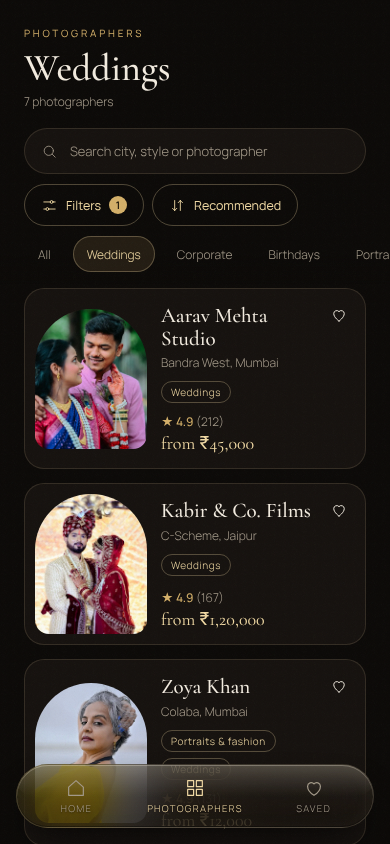
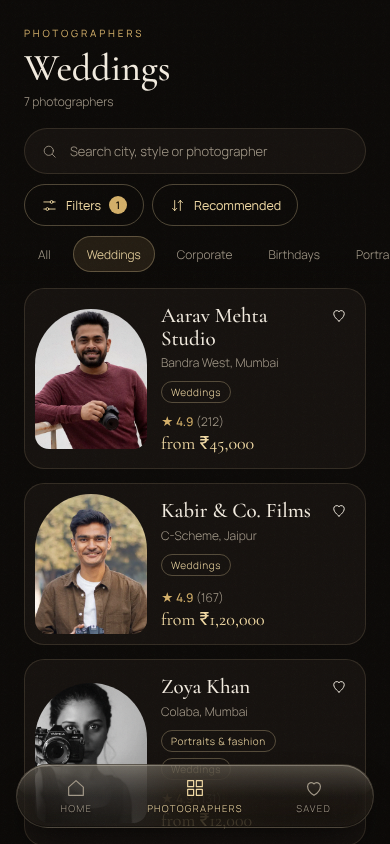
Represent each photographer by a lead portrait; add leadName/leadImage and Led by line
Claude-Session: https://claude.ai/code/session_01Rxh5ijzNSCdoqTBqvzDQCr

Changed region(s): [[0.0923, 0.3389, 0.4, 0.5545], [0.0923, 0.5853, 0.4, 0.7701], [0.0923, 0.8009, 0.4, 0.9858]]

diff --git a/src/data/seed/photographers.ts b/src/data/seed/photographers.ts
@@ -4,97 +4,97 @@ import type { Photographer } from '../types';
 type P = Omit<Photographer, 'startingPrice' | 'contact'> & { n: number };
 const raw: P[] = [
   {
-    id: 'aarav-mehta', n: 1, name: 'Aarav Mehta Studio', tagline: 'Candid, cinematic wedding stories', heroImage: '39625024',
+    id: 'aarav-mehta', n: 1, name: 'Aarav Mehta Studio', tagline: 'Candid, cinematic wedding stories', heroImage: '39625024', leadName: 'Aarav Mehta', leadImage: 'lead-aarav-mehta',
     city: 'Mumbai', area: 'Bandra West', categories: ['weddings'], rating: 4.9, reviewCount: 212, yearsExperience: 11, featured: true,
     about: 'Eleven years of Indian weddings, from Udaipur palaces to Mumbai courtyards. I shoot quietly from the edges, so the day stays yours and the photographs feel like memory rather than performance. Most of my couples tell me they forgot I was there.',
     signatureStyle: { title: 'Candid & cinematic', bullets: ['Golden-hour storytelling over posed line-ups', 'Rich, true-to-skin colour grading', 'A single album sequenced like a short film'], tags: ['Candid', 'Cinematic', 'Warm tones'] },
   },
   {
-    id: 'kabir-films', n: 2, name: 'Kabir & Co. Films', tagline: 'Royal Rajasthani weddings, shot like cinema', heroImage: '32379184',
+    id: 'kabir-films', n: 2, name: 'Kabir & Co. Films', tagline: 'Royal Rajasthani weddings, shot like cinema', heroImage: '32379184', leadName: 'Kabir Anand', leadImage: 'lead-kabir-films',
     city: 'Jaipur', area: 'C-Scheme', categories: ['weddings'], rating: 4.9, reviewCount: 167, yearsExperience: 9, featured: true,
     about: 'A two-brother team based in Jaipur, shooting palace and haveli weddings across Rajasthan. We scout every venue before the big day so light, angles and the baraat route are planned, never improvised.',
     signatureStyle: { title: 'Regal, jewel-toned frames', bullets: ['Wide palace architecture with the couple small in frame', 'Deep reds and marigold kept saturated, never washed out', 'Drone and gimbal film delivered with the stills'], tags: ['Royal', 'Editorial', 'Drone'] },
   },
   {
-    id: 'meher-vikram', n: 3, name: 'Meher & Vikram', tagline: 'Documentary photographs of every ritual', heroImage: '29984888',
+    id: 'meher-vikram', n: 3, name: 'Meher & Vikram', tagline: 'Documentary photographs of every ritual', heroImage: '29984888', leadName: 'Vikram Malik', leadImage: 'lead-meher-vikram',
     city: 'Delhi', area: 'Greater Kailash', categories: ['weddings'], rating: 4.8, reviewCount: 143, yearsExperience: 8,
     about: 'We grew up at Punjabi weddings and still get emotional at the doli. Our work follows the rituals, haldi, mehendi, pheras, in the order they happen, with a soft spot for aunties, grandparents and the chaos between ceremonies.',
     signatureStyle: { title: 'Ritual-first documentary', bullets: ['Hands, bangles and haldi close-ups woven into the story', 'Colour-rich, slightly grainy film look', 'Family portraits shot in two quick minutes, not two hours'], tags: ['Documentary', 'Rituals', 'Colourful'] },
   },
   {
-    id: 'ananya-rao', n: 4, name: 'Ananya Rao Photography', tagline: 'Bridal portraits and intimate ceremonies', heroImage: '29226150',
+    id: 'ananya-rao', n: 4, name: 'Ananya Rao Photography', tagline: 'Bridal portraits and intimate ceremonies', heroImage: '29226150', leadName: 'Ananya Rao', leadImage: 'lead-ananya-rao',
     city: 'Bengaluru', area: 'Indiranagar', categories: ['weddings'], rating: 4.8, reviewCount: 98, yearsExperience: 7, featured: true,
     about: 'I photograph weddings of every tradition, Kannada, Tamil, Bengali and Marwari, and I love the small hours before the ceremony. Expect soft window light, jasmine, silk and a bride who is allowed to breathe.',
     signatureStyle: { title: 'Soft light, quiet brides', bullets: ['Getting-ready portraits shot by window light', 'Traditional jewellery and textiles in detail', 'Limited weddings per season to keep it personal'], tags: ['Soft', 'Bridal', 'Intimate'] },
   },
   {
-    id: 'joaquim-fernandes', n: 5, name: 'Joaquim Fernandes', tagline: 'Sun, sea and saptapadi', heroImage: '32107242',
+    id: 'joaquim-fernandes', n: 5, name: 'Joaquim Fernandes', tagline: 'Sun, sea and saptapadi', heroImage: '32107242', leadName: 'Joaquim Fernandes', leadImage: 'lead-joaquim-fernandes',
     city: 'Goa', area: 'Assagao', categories: ['weddings'], rating: 4.7, reviewCount: 121, yearsExperience: 10,
     about: 'Destination weddings on Goa beaches, villas and old Portuguese churches. I travel light, shoot with natural light and keep couples relaxed with a very bad sense of humour.',
     signatureStyle: { title: 'Sunlit and unhurried', bullets: ['Golden-hour beach portraits with minimal posing', 'Relaxed, laughing candids over staged stills', 'Same-week sneak peek of ten photographs'], tags: ['Destination', 'Natural light', 'Beach'] },
   },
   {
-    id: 'riya-shekhawat', n: 6, name: 'Riya Shekhawat', tagline: 'Rajasthani portraits and bridal editorials', heroImage: '38281667',
+    id: 'riya-shekhawat', n: 6, name: 'Riya Shekhawat', tagline: 'Rajasthani portraits and bridal editorials', heroImage: '38281667', leadName: 'Riya Shekhawat', leadImage: 'lead-riya-shekhawat',
     city: 'Jaipur', area: 'Vaishali Nagar', categories: ['portraits', 'weddings'], rating: 4.8, reviewCount: 76, yearsExperience: 6,
     about: 'I make portraits that honour the textiles, jewellery and faces of Rajasthan. Bridal editorials and pre-wedding shoots share a studio with personal portrait sessions in old Jaipur havelis.',
     signatureStyle: { title: 'Heritage portraiture', bullets: ['Natural window light in havelis and courtyards', 'Jewellery, odhni and mehendi given room in the frame', 'Colour palettes planned with your outfit'], tags: ['Heritage', 'Editorial', 'Bridal'] },
   },
   {
-    id: 'zoya-khan', n: 7, name: 'Zoya Khan', tagline: 'Faces with stories, light with patience', heroImage: '40124295',
+    id: 'zoya-khan', n: 7, name: 'Zoya Khan', tagline: 'Faces with stories, light with patience', heroImage: '40124295', leadName: 'Zoya Khan', leadImage: 'lead-zoya-khan',
     city: 'Mumbai', area: 'Colaba', categories: ['portraits', 'weddings'], rating: 4.9, reviewCount: 131, yearsExperience: 8,
     about: 'Street-trained portrait photographer. I spend an hour talking before I pick up the camera, which is why people look like themselves in my photographs. I also shoot a small number of intimate weddings each year.',
     signatureStyle: { title: 'Honest, close portraits', bullets: ['Tight framing, shallow depth, eyes in focus', 'Black-and-white options on every shoot', 'Unretouched skin, gentle colour'], tags: ['Character', 'Monochrome', 'Intimate'] },
   },
   {
-    id: 'ira-kapoor', n: 8, name: 'Ira Kapoor Frames', tagline: 'Editorial fashion with an Indian palette', heroImage: '13156801',
+    id: 'ira-kapoor', n: 8, name: 'Ira Kapoor Frames', tagline: 'Editorial fashion with an Indian palette', heroImage: '13156801', leadName: 'Ira Kapoor', leadImage: 'lead-ira-kapoor',
     city: 'Delhi', area: 'Gurugram', categories: ['portraits'], rating: 4.8, reviewCount: 189, yearsExperience: 9, featured: true,
     about: 'Fashion and lookbook photographer working with designers, models and creators across Delhi NCR. I style, light and direct each shoot like a short editorial, from saree drapes to streetwear.',
     signatureStyle: { title: 'Moody editorial colour', bullets: ['Deep teal and rust palettes against traditional textiles', 'Directional light, cinematic crops', 'Shot list and mood board shared two days before'], tags: ['Editorial', 'Moody', 'Fashion'] },
   },
   {
-    id: 'dev-malhotra', n: 9, name: 'Dev Malhotra', tagline: 'Portfolios and portraits for people who dislike being photographed', heroImage: '5163867',
+    id: 'dev-malhotra', n: 9, name: 'Dev Malhotra', tagline: 'Portfolios and portraits for people who dislike being photographed', heroImage: '5163867', leadName: 'Dev Malhotra', leadImage: 'lead-dev-malhotra',
     city: 'Goa', area: 'Panjim', categories: ['portraits'], rating: 4.7, reviewCount: 64, yearsExperience: 5,
     about: 'Actors, musicians and founders come to me for portfolio and profile shoots. We walk around Panjim or shoot on the beach at dusk, so nobody has to hold an awkward pose in a studio.',
     signatureStyle: { title: 'Easy, outdoor portraits', bullets: ['Walk-and-talk sessions, no stiff posing', 'Warm film-style colour', 'Twenty edited images within three days'], tags: ['Portfolio', 'Outdoor', 'Warm'] },
   },
   {
-    id: 'pooja-iyer', n: 10, name: 'Pooja Iyer Moments', tagline: 'Birthdays for kids who will not sit still', heroImage: '32760987',
+    id: 'pooja-iyer', n: 10, name: 'Pooja Iyer Moments', tagline: 'Birthdays for kids who will not sit still', heroImage: '32760987', leadName: 'Pooja Iyer', leadImage: 'lead-pooja-iyer',
     city: 'Bengaluru', area: 'HSR Layout', categories: ['birthdays'], rating: 4.9, reviewCount: 203, yearsExperience: 7, featured: true,
     about: 'I photograph first birthdays and kids parties in Bengaluru homes and clubhouses. Twenty minutes of play is better than an hour of posing, so I bring bubbles, music and a lot of patience.',
     signatureStyle: { title: 'Playful pastel candids', bullets: ['Eye-level shots of kids mid-laugh', 'Soft pastel grading to match the decor', 'Cake-smash and balloon portraits included'], tags: ['Kids', 'Playful', 'Pastel'] },
   },
   {
-    id: 'farhan-qureshi', n: 11, name: 'Farhan Qureshi', tagline: 'Parties and offsites, caught on the dance floor', heroImage: '29295011',
+    id: 'farhan-qureshi', n: 11, name: 'Farhan Qureshi', tagline: 'Parties and offsites, caught on the dance floor', heroImage: '29295011', leadName: 'Farhan Qureshi', leadImage: 'lead-farhan-qureshi',
     city: 'Delhi', area: 'Hauz Khas', categories: ['birthdays', 'corporate'], rating: 4.6, reviewCount: 87, yearsExperience: 8,
     about: 'Milestone birthdays, farmhouse parties and company offsites. I use bounce flash and fast lenses so the dance floor looks the way it felt, not like a CCTV frame.',
     signatureStyle: { title: 'Energetic night-life candids', bullets: ['Flash-kissed motion and confetti', 'Group shots in under five minutes', 'Gallery link live the next morning'], tags: ['Party', 'Flash', 'Energy'] },
   },
   {
-    id: 'neha-kapoor', n: 12, name: 'Neha Kapoor Little Stories', tagline: 'Gentle birthday and cake-smash portraits', heroImage: '8104171',
+    id: 'neha-kapoor', n: 12, name: 'Neha Kapoor Little Stories', tagline: 'Gentle birthday and cake-smash portraits', heroImage: '8104171', leadName: 'Neha Kapoor', leadImage: 'lead-neha-kapoor',
     city: 'Jaipur', area: 'Malviya Nagar', categories: ['birthdays'], rating: 4.7, reviewCount: 112, yearsExperience: 6,
     about: 'A home studio in Malviya Nagar with themed backdrops, plus on-location party coverage. Soft, airy photographs that look good in a frame on the wall as well as on a phone.',
     signatureStyle: { title: 'Airy, themed storytelling', bullets: ['Custom backdrops built around your theme', 'Bright, clean light that flatters little faces', 'Printed mini-album with every full package'], tags: ['Airy', 'Themed', 'Studio'] },
   },
   {
-    id: 'aditi-verma', n: 13, name: 'Aditi Verma', tagline: 'Beach-house and villa parties in Goa', heroImage: '38473407',
+    id: 'aditi-verma', n: 13, name: 'Aditi Verma', tagline: 'Beach-house and villa parties in Goa', heroImage: '38473407', leadName: 'Aditi Verma', leadImage: 'lead-aditi-verma',
     city: 'Goa', area: 'Candolim', categories: ['birthdays'], rating: 4.6, reviewCount: 58, yearsExperience: 5,
     about: 'Villa birthdays, bachelorette weekends and sundowner parties in North Goa. I blend in with the guests, keep the energy high and deliver a gallery before you fly home.',
     signatureStyle: { title: 'Sundowner party stories', bullets: ['Golden-hour group portraits', 'Candids of the guests, not just the host', 'Quick-turnaround highlights for the group chat'], tags: ['Villa', 'Sundowner', 'Groups'] },
   },
   {
-    id: 'rohan-kulkarni', n: 14, name: 'Rohan Kulkarni Events', tagline: 'Conferences and launches, covered end to end', heroImage: '7591091',
+    id: 'rohan-kulkarni', n: 14, name: 'Rohan Kulkarni Events', tagline: 'Conferences and launches, covered end to end', heroImage: '7591091', leadName: 'Rohan Kulkarni', leadImage: 'lead-rohan-kulkarni',
     city: 'Mumbai', area: 'Powai', categories: ['corporate'], rating: 4.8, reviewCount: 156, yearsExperience: 12, featured: true,
     about: 'Twelve years covering summits, product launches and award nights for Mumbai companies. A two-person crew handles stage, audience and networking, with a same-day edit for social teams.',
     signatureStyle: { title: 'Clean, journalistic coverage', bullets: ['Speaker, audience and sponsor shots on one shot list', 'Neutral grading true to brand colours', 'Same-day highlights for LinkedIn and Instagram'], tags: ['Conference', 'Launch', 'Same-day'] },
   },
   {
-    id: 'siddharth-nair', n: 15, name: 'Siddharth Nair Imagery', tagline: 'Team headshots and offsite photography', heroImage: '7580766',
+    id: 'siddharth-nair', n: 15, name: 'Siddharth Nair Imagery', tagline: 'Team headshots and offsite photography', heroImage: '7580766', leadName: 'Siddharth Nair', leadImage: 'lead-siddharth-nair',
     city: 'Bengaluru', area: 'Koramangala', categories: ['corporate'], rating: 4.7, reviewCount: 92, yearsExperience: 8,
     about: 'Headshots for start-up teams, leadership portraits and offsite coverage across Bengaluru. I set up a pop-up studio in your office and shoot fifty people in a day without anyone feeling awkward.',
     signatureStyle: { title: 'Natural, confident headshots', bullets: ['Pop-up studio in your office', 'Consistent light so a team looks like a team', 'Retouched files in 48 hours'], tags: ['Headshots', 'Teams', 'On-site'] },
   },
   {
-    id: 'tanvi-sharma', n: 16, name: 'Tanvi Sharma Visuals', tagline: 'Corporate galas and office celebrations', heroImage: '29708270',
+    id: 'tanvi-sharma', n: 16, name: 'Tanvi Sharma Visuals', tagline: 'Corporate galas and office celebrations', heroImage: '29708270', leadName: 'Tanvi Sharma', leadImage: 'lead-tanvi-sharma',
     city: 'Delhi', area: 'Connaught Place', categories: ['corporate', 'birthdays'], rating: 4.9, reviewCount: 174, yearsExperience: 10, featured: true,
     about: 'From keynote stages to team-birthday cakes in the pantry. I cover galas, summits and the human moments that make company culture look real, with a crew that fits any hotel ballroom.',
     signatureStyle: { title: 'Stage-lit, human moments', bullets: ['Stage and crowd coverage with dramatic light', 'Candid team culture photos for careers pages', 'Gallery with usage-ready crops'], tags: ['Gala', 'Culture', 'Dramatic'] },

diff --git a/src/data/seed/images.ts b/src/data/seed/images.ts
@@ -68,4 +68,20 @@ export const IMAGES: Record<string, ImageMeta> = {
   "18429385": { src: "img/p/18429385.webp", w: 933, h: 1400, box: [0.324, 0.186, 0.766, 0.451], focus: "55% 35%", alt: "Smiling Mother Holding Daughter on Birthday" },
   "36211802": { src: "img/p/36211802.webp", w: 933, h: 1400, box: [0.508, 0.228, 0.743, 0.530], focus: "63% 42%", alt: "Smiling Woman Celebrating Birthday Indoors" },
   "16632447": { src: "img/p/16632447.webp", w: 1100, h: 734, box: [0.138, 0.000, 0.749, 0.757], focus: "44% 39%", alt: "Smiling Indian Bride and Groom in Traditional Costumes" },
+  "lead-pooja-iyer": { src: "img/p/lead-pooja-iyer.webp", w: 720, h: 900, box: [0.361, 0.166, 0.639, 0.489], focus: "50% 36%", alt: "Pooja Iyer, lead photographer with a camera" },
+  "lead-neha-kapoor": { src: "img/p/lead-neha-kapoor.webp", w: 720, h: 899, box: [0.361, 0.119, 0.639, 0.521], focus: "50% 36%", alt: "Neha Kapoor, lead photographer with a camera" },
+  "lead-ira-kapoor": { src: "img/p/lead-ira-kapoor.webp", w: 720, h: 900, box: [0.361, 0.142, 0.639, 0.485], focus: "50% 35%", alt: "Ira Kapoor, lead photographer with a camera" },
+  "lead-zoya-khan": { src: "img/p/lead-zoya-khan.webp", w: 720, h: 900, box: [0.361, 0.092, 0.639, 0.539], focus: "50% 36%", alt: "Zoya Khan, lead photographer with a camera" },
+  "lead-aditi-verma": { src: "img/p/lead-aditi-verma.webp", w: 720, h: 900, box: [0.361, 0.135, 0.639, 0.51], focus: "50% 36%", alt: "Aditi Verma, lead photographer with a camera" },
+  "lead-ananya-rao": { src: "img/p/lead-ananya-rao.webp", w: 720, h: 900, box: [0.3, 0.12, 0.72, 0.58], focus: "52% 38%", alt: "Ananya Rao, lead photographer with a camera" },
+  "lead-riya-shekhawat": { src: "img/p/lead-riya-shekhawat.webp", w: 720, h: 899, box: [0.3, 0.08, 0.85, 0.68], focus: "58% 42%", alt: "Riya Shekhawat, lead photographer with a camera" },
+  "lead-tanvi-sharma": { src: "img/p/lead-tanvi-sharma.webp", w: 720, h: 900, box: [0.314, 0.164, 0.605, 0.491], focus: "46% 36%", alt: "Tanvi Sharma, lead photographer with a camera" },
+  "lead-aarav-mehta": { src: "img/p/lead-aarav-mehta.webp", w: 720, h: 899, box: [0.361, 0.039, 0.639, 0.399], focus: "50% 26%", alt: "Aarav Mehta, lead photographer with a camera" },
+  "lead-kabir-films": { src: "img/p/lead-kabir-films.webp", w: 720, h: 900, box: [0.361, 0.139, 0.639, 0.507], focus: "50% 36%", alt: "Kabir Anand, lead photographer with a camera" },
+  "lead-rohan-kulkarni": { src: "img/p/lead-rohan-kulkarni.webp", w: 720, h: 900, box: [0.355, 0.102, 0.645, 0.507], focus: "50% 35%", alt: "Rohan Kulkarni, lead photographer with a camera" },
+  "lead-siddharth-nair": { src: "img/p/lead-siddharth-nair.webp", w: 720, h: 900, box: [0.324, 0.137, 0.602, 0.509], focus: "46% 36%", alt: "Siddharth Nair, lead photographer with a camera" },
+  "lead-farhan-qureshi": { src: "img/p/lead-farhan-qureshi.webp", w: 720, h: 900, box: [0.361, 0.121, 0.639, 0.5], focus: "50% 35%", alt: "Farhan Qureshi, lead photographer with a camera" },
+  "lead-dev-malhotra": { src: "img/p/lead-dev-malhotra.webp", w: 720, h: 900, box: [0.35, 0.266, 0.65, 0.591], focus: "50% 46%", alt: "Dev Malhotra, lead photographer with a camera" },
+  "lead-joaquim-fernandes": { src: "img/p/lead-joaquim-fernandes.webp", w: 720, h: 900, box: [0.361, 0.143, 0.639, 0.505], focus: "50% 36%", alt: "Joaquim Fernandes, lead photographer with a camera" },
+  "lead-meher-vikram": { src: "img/p/lead-meher-vikram.webp", w: 719, h: 900, box: [0.361, 0.15, 0.639, 0.5], focus: "50% 36%", alt: "Vikram Malik, lead photographer with a camera" },
 };

diff --git a/src/routes/Profile.svelte b/src/routes/Profile.svelte
@@ -63,7 +63,7 @@
 {:else if p}
   <div class="page" bind:this={page} onscroll={scrolled} in:pageIn|global>
     <div class="hero">
-      <div class="himg" style:transform={`translateY(${heroShift}px) scale(1.06)`}><Img id={p.heroImage} ratio={390 / 340} ty={0.38} eager /></div>
+      <div class="himg" style:transform={`translateY(${heroShift}px) scale(1.06)`}><Img id={p.leadImage} ratio={390 / 340} ty={0.4} eager /></div>
       <div class="shade"></div>
     </div>
     <div class="nav">
@@ -74,6 +74,7 @@
     <div class="hd">
       <span class="eyebrow">{p.categories.map(label).join(' · ')} · {p.city}</span>
       <h1>{nameParts.head} <i>{nameParts.last}</i></h1>
+      <p class="led">Led by <b>{p.leadName}</b></p>
       <p class="tag">{p.tagline}</p>
       <div class="meta"><span class="st">★ {formatRating(p.rating)}</span><span>{p.reviewCount} reviews</span><span>{p.yearsExperience} yrs</span><span class="loc"><Icon name="pin" size={13} /> {p.area}</span></div>
     </div>
@@ -155,6 +156,8 @@
   h1 { font-family: var(--font-serif); font-weight: 500; font-size: var(--t-profile); line-height: 1; margin-top: 6px; letter-spacing: -0.01em; }
   h1 i { color: var(--gold-hi); }
   .tag { font-family: var(--font-serif); font-style: italic; font-size: 17px; color: var(--ink-soft); margin-top: 8px; }
+  .led { margin-top: 8px; font-size: 13px; color: var(--mute); }
+  .led b { color: var(--gold-hi); font-weight: 500; }
   .meta { display: flex; flex-wrap: wrap; gap: 6px 14px; font-size: 12px; color: var(--mute); margin-top: 10px; align-items: center; }
   .meta .st { color: var(--gold); }
   .loc { display: inline-flex; align-items: center; gap: 4px; }

diff --git a/src/components/PhotographerCard.svelte b/src/components/PhotographerCard.svelte
@@ -11,7 +11,7 @@
 
 <article class="card stagger" style:--i={Math.min(i, 8)}>
   <a href={`#/photographers/${p.id}`} class="link" aria-label={`${p.name}, ${p.city}, from ${formatINR(p.startingPrice)}`}>
-    <div class="im"><Img id={p.heroImage} ratio={112 / 140} ty={0.36} {eager} /></div>
+    <div class="im"><Img id={p.leadImage} ratio={112 / 140} ty={0.36} {eager} /></div>
     <div class="body">
       <h3>{p.name}</h3>
       <p class="loc">{p.area}, {p.city}</p>

diff --git a/src/components/FeaturedCard.svelte b/src/components/FeaturedCard.svelte
@@ -11,7 +11,7 @@
 
 <div class="fc stagger" style:--i={i + 2}>
   <a href={`#/photographers/${p.id}`}>
-    <div class="im"><Img id={p.heroImage} ratio={1} ty={0.4} eager={i < 2} /></div>
+    <div class="im"><Img id={p.leadImage} ratio={1} ty={0.4} eager={i < 2} /></div>
     <div class="t"><b>{p.name}</b><span class="pr">{formatRating(p.rating)} ★</span></div>
     <div class="m">{p.city} · {cat} · from {formatINR(p.startingPrice)}</div>
   </a>

diff --git a/src/data/types.ts b/src/data/types.ts
@@ -35,7 +35,10 @@ export interface Photographer {
   id: string;
   name: string;
   tagline: string;
-  heroImage: string; // image id
+  heroImage: string; // image id (portfolio hero)
+  /** The person who leads the studio and the portrait that represents it on cards and the profile hero. */
+  leadName: string;
+  leadImage: string; // image id
   city: City;
   area: string;
   categories: CategoryId[];

diff --git a/public/img/CREDITS.md b/public/img/CREDITS.md
@@ -72,3 +72,26 @@ Source page: `https://www.pexels.com/photo/<id>/`. This is a private on-device d
 | p/18429385.webp | https://www.pexels.com/photo/18429385/ | Inna Perekitnaja | Smiling Mother Holding Daughter on Birthday |
 | p/36211802.webp | https://www.pexels.com/photo/36211802/ | Rizky Sabriansyah | Smiling Woman Celebrating Birthday Indoors |
 | p/16632447.webp | https://www.pexels.com/photo/16632447/ | Rupinder  Korpal | Smiling Indian Bride and Groom in Traditional Costumes |
+
+## Lead portraits (photographer / studio lead)
+
+Cropped to 4:5 from the Pexels originals (`https://www.pexels.com/photo/<id>/`), stored as `p/lead-<slug>.webp`.
+
+| File | Pexels photo |
+|---|---|
+| p/lead-pooja-iyer.webp | https://www.pexels.com/photo/15638345/ |
+| p/lead-neha-kapoor.webp | https://www.pexels.com/photo/16082969/ |
+| p/lead-ira-kapoor.webp | https://www.pexels.com/photo/19877825/ |
+| p/lead-zoya-khan.webp | https://www.pexels.com/photo/18529574/ |
+| p/lead-aditi-verma.webp | https://www.pexels.com/photo/28926424/ |
+| p/lead-ananya-rao.webp | https://www.pexels.com/photo/30902376/ |
+| p/lead-riya-shekhawat.webp | https://www.pexels.com/photo/37879981/ |
+| p/lead-tanvi-sharma.webp | https://www.pexels.com/photo/36870279/ |
+| p/lead-aarav-mehta.webp | https://www.pexels.com/photo/5528969/ |
+| p/lead-kabir-films.webp | https://www.pexels.com/photo/15594934/ |
+| p/lead-rohan-kulkarni.webp | https://www.pexels.com/photo/16597257/ |
+| p/lead-siddharth-nair.webp | https://www.pexels.com/photo/9727189/ |
+| p/lead-farhan-qureshi.webp | https://www.pexels.com/photo/9712807/ |
+| p/lead-dev-malhotra.webp | https://www.pexels.com/photo/15891673/ |
+| p/lead-joaquim-fernandes.webp | https://www.pexels.com/photo/14135298/ |
+| p/lead-meher-vikram.webp | https://www.pexels.com/photo/20777265/ |

diff --git a/docs/HANDBOOK.md b/docs/HANDBOOK.md
@@ -16,7 +16,7 @@ PRD locked (v1.0). Stack locked. Direction A (Noor Atelier) approved. Working pr
 - `src/data/` - `types.ts`, `api.ts` (only data entry point for UI), `seed/` (photographers, packages, portfolio, categories, generated `images.ts`)
 - `src/lib/` - format (INR), contact (tel/wa.me/mailto), filters (URL query), focus (smart crop), saved (localStorage), motion
 - `src/styles/` - `tokens.css`, `base.css`
-- `public/img/p/` - trimmed demo set of WebP photos; `public/img/CREDITS.md` - source URLs
+- `public/img/p/` - trimmed demo set of WebP photos (4 per portfolio, plus `lead-<slug>.webp` portraits of each studio lead); `public/img/CREDITS.md` - source URLs
 - `e2e/smoke.spec.ts` + `playwright.config.ts` - Playwright smoke; `scripts/screenshots.mjs` - screenshot capture
 - `CLAUDE.md` - agent entry point
 
